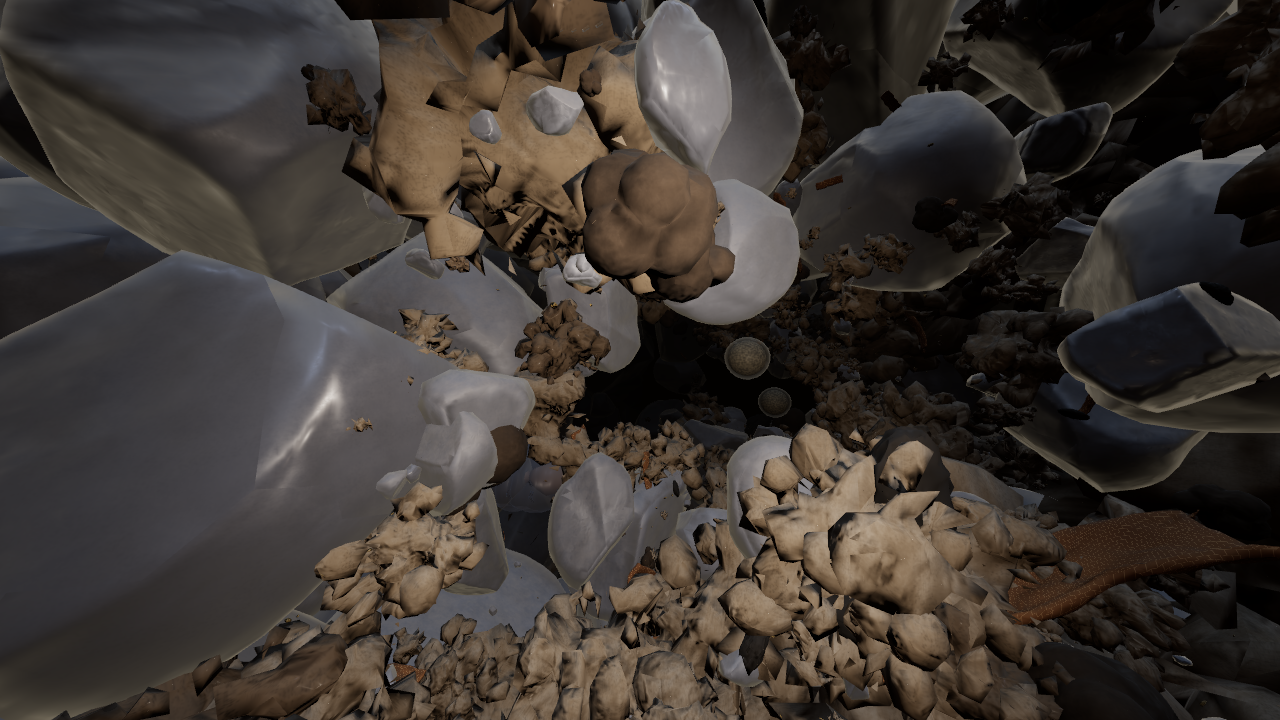
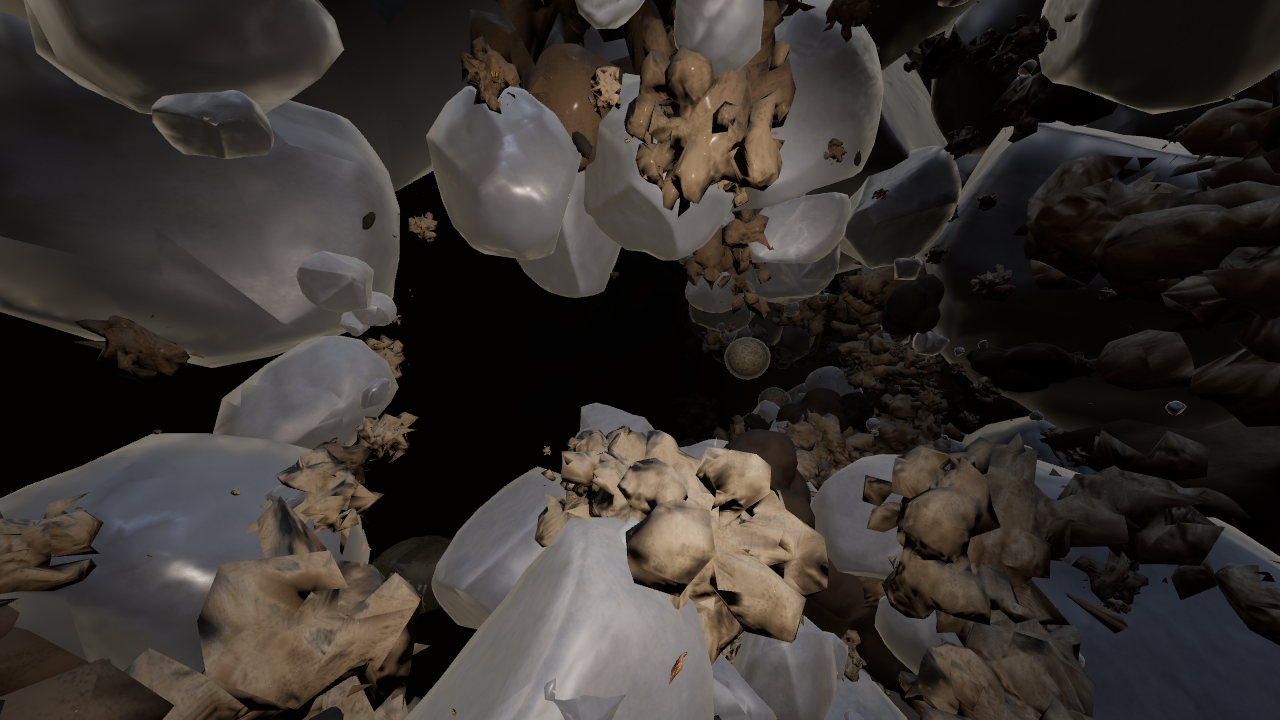
UNDERSOIL: VR surface fixes (facing, test entry); handoff notes for the ten proposals
Claude-Session: https://claude.ai/code/session_01HXHWaeyj425ipGMnohy3Vo

diff --git a/undersoil/src/pages/vr.ts b/undersoil/src/pages/vr.ts
@@ -39,7 +39,7 @@ async function main() {
   // VR では顔を上げると空が見えるので、明け方の淡い空の色にし、地面の端は同じ色の霧に溶かす
   { const sky = new THREE.Color(0xcdd8de); surface.scene.background = sky; if (surface.scene.fog) (surface.scene.fog as THREE.Fog).color = sky; else surface.scene.fog = new THREE.Fog(sky, 18, 34); }
   const sRig = new THREE.Group(); sRig.scale.setScalar(14 / 1.25); surface.scene.add(sRig);
-  sRig.position.set(-11, surface.groundY - 0.5, 10); sRig.rotation.y = Math.atan2(11, -10) + Math.PI;   // 芽（原点）のほうを向く
+  sRig.position.set(-11, surface.groundY - 0.5, 10); sRig.rotation.y = Math.atan2(-11, 10);   // 芽（原点）のほうを向く（−Z が前なので、向き (11, −10) になる角度）
   let where: 'soil' | 'surface' = 'soil', growT = 0, fadeT = 0, pending: 'soil' | 'surface' | null = null;
   /** 場面の切り替え：一瞬暗くしてから、カメラ（頭）を別のリグに付けかえる。カメラを勝手に動かさない */
   const goTo = (w: 'soil' | 'surface') => { if (w === where || pending) return; pending = w; fadeT = 0.35; };
@@ -56,6 +56,8 @@ async function main() {
   addEventListener('pointerup', () => { drag = false; });
   addEventListener('pointermove', (e) => { if (!drag || renderer.xr.isPresenting) return; yaw -= (e.clientX - px) * 0.004; pitch = Math.max(-1.2, Math.min(1.2, pitch - (e.clientY - py) * 0.004)); px = e.clientX; py = e.clientY; });
 
+  // 確認用：?scene=surface&g=0..1 で、地上の場面から始める
+  { const Q = new URLSearchParams(location.search); if (Q.get('scene') === 'surface') { pending = 'surface'; doSwitch(); growT = Number(Q.get('g') ?? 0) * 26; surface.setGrowth(Math.min(1, growT / 26)); } }
   const xr = (navigator as Navigator & { xr?: XRSystem }).xr;
   let supported = false;
   try { supported = !!xr && await xr.isSessionSupported('immersive-vr'); } catch { supported = false; }

diff --git a/undersoil/Docs/HANDOFF.md b/undersoil/Docs/HANDOFF.md
@@ -114,3 +114,16 @@
   - 互換・VR の三角形を減らした（WEB_BUDGET.md の 2026-11-25）。互換 137 万 → 75 万。
   - 進捗ページの動画を撮り直した（50 秒）。
   - 事実確認の指摘を台帳に反映した。
+- 提案 10 個の実装（2026-11-25 夜）：
+  1. 種の目覚め（`src/game/seedLife.ts`）：水の膜、しみ出す養分の流れ（本当は無色。見えるように色をつけたと、カードにも書いた）、集まる細菌、種皮の割れ目と白い幼根。
+     目覚めは道の終わりの区画の水と、全体の活力から（`game.ts`）。十分に目覚めると幼根が 40 秒かけてのぞく。根の通り道には粒を置かない（layout の seedKnob・rootLen・rootR）。
+  2. 種の紹介カード（`clover-seed`）に、本物の種の写真（硬貨と並べた 12 粒）。
+  3. 種皮が破れ、白い幼根がのぞく（1 と同じ）。
+  4. 小さな地図（`src/ui/minimap.ts`）：真上から、道・入口・種（ゴール）・クマムシの洞・いまの位置と向き。
+  5. ゴール（`screen.ts` の goalTick）：種にたどり着くと知らせ、種が目覚めていれば地上の芽生えへ。眠っていれば「水を運ぶ」をすすめる。
+  6. 紹介中は、ピントを浅く・ぼけを強くして、その生き物に目が行くようにした（`post.ts` の range・bokeh を uniform に）。
+  7. 本物の動画の中で、生き物を追いかける丸（`photos.json` の track。いまはクマムシの動画だけ）。
+  8. 「本物に会うには」（`src/data/meet.json`）：家で本物を見つける方法。
+  9. 大きさくらべ（`src/ui/sizes.ts`）：本物の写真を、10 倍ごとの目盛りで並べる。
+  10. 観察ノート（`src/ui/notebook.ts`）：出会った生き物の写真を集め、部分の名前クイズ（選ぶ形式、選択肢は毎回入れかえ、まちがえた問題だけ繰り返して全問正解まで）。
+- M1 の残りの続き：朝露（`src/game/dew.ts`。子葉・本葉・枯れ草に、芽が開ききるころ現れる）。VR 版に地上の場面（握るボタンか画面のボタンで切り替え。明け方の空）。
